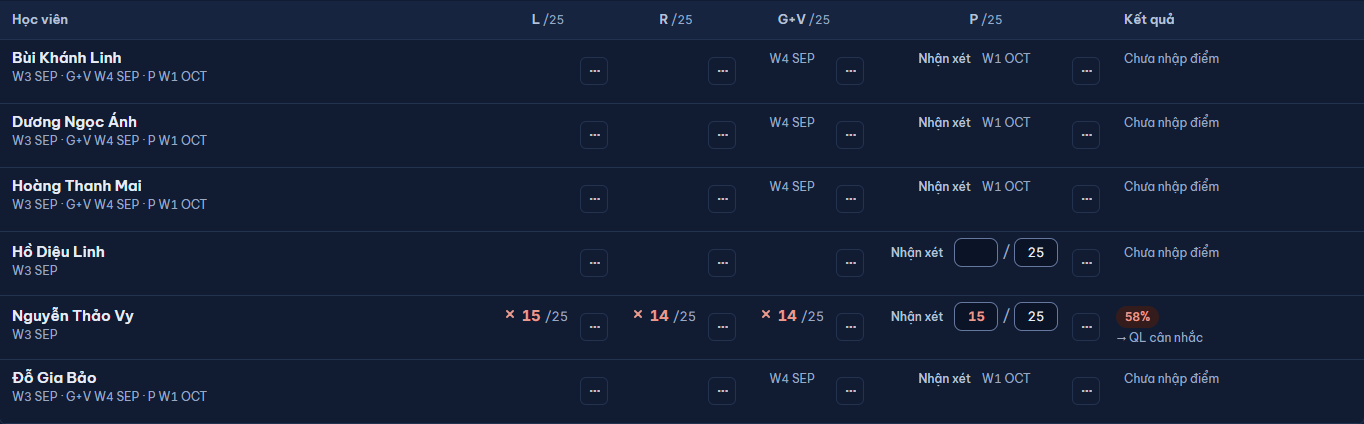
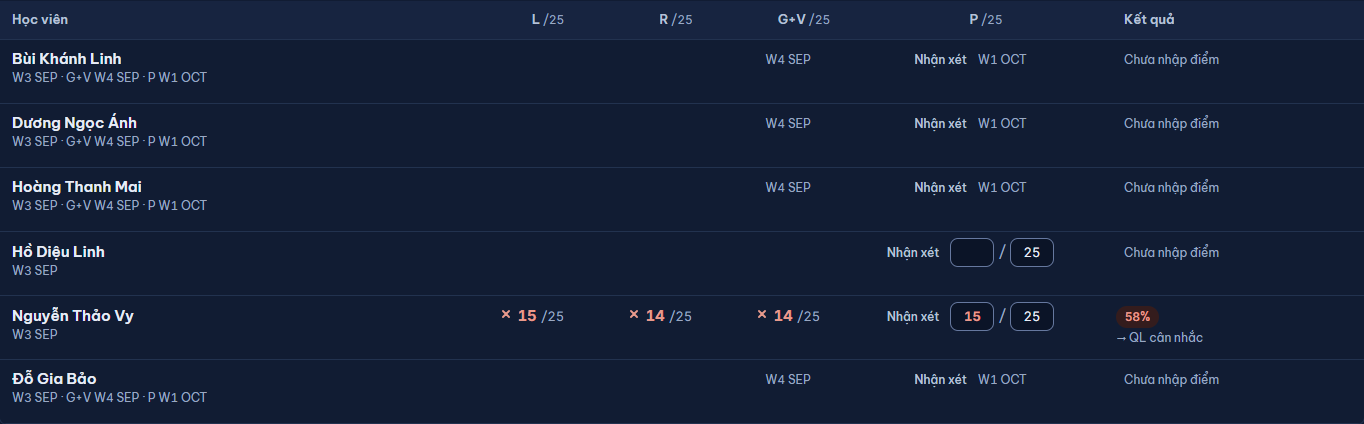
SUA-NHO-UI U0: ⋯ trong dòng đầu ô (căn baseline, invisible giữ chỗ — chỉ hiện khi rê / focus); U2: chip Lịch Test + ô chọn Công việc cũng "Fast Track n"; ảnh U0 thường / rê / 375

diff --git a/web/src/modules/cham/LuoiThuong.tsx b/web/src/modules/cham/LuoiThuong.tsx
@@ -144,8 +144,6 @@ export function tongPhoBien(rows: Row[], k: string): number | null {
 
 /* BANG-1: rộng cột theo kiểu của `Bang`; ô môn sửa được chứa Nhận xét · đúng / tổng · ⋯ trên MỘT hàng → 236 px. */
 const COT_MON = 236;
-/** U0 (chủ SP 30/10): ô có ⋯ ở mép phải chừa đệm phải = nút (28 px) + 2 lề 4 px — ⋯ không đè tuần / số / "Nhận xét" của ô, kể cả khi rê. */
-const O_CO_MENU = 'group relative !pr-9';
 const COT_KQ = 260;
 
 /**
@@ -382,9 +380,11 @@ function DongThuong({ row, rowIndex, sheet, laCp, cc, active, tongCot, dien, onR
     const tat = thaoTacKyNang(tt, { nhapDiem: s?.canEdit ?? false, quanLy: sheet.canPlan, gvcn: !!sheet.laGvcn, laFt: false, dotHoanTat: !!row.hoanTat, doiLich: s?.doiLich, quaTuan: tuanDaQua(s?.weekStart, homNay),
       huy: can(PERMISSIONS.ATTEMPT_SKIP_SKILL), han: can(PERMISSIONS.DEADLINE_OVERRIDE), diemHuy: !!s?.diemHuy });
     const ds = [...(tat.chinh && THAO_TAC_CO_HOP.includes(tat.chinh) ? [tat.chinh] : []), ...tat.menu];
-    /* OV-11i (P3-3): chỉ ẩn chờ rê chuột khi thiết bị rê được — máy tính bảng cảm ứng ≥ 640 px vẫn thấy ⋯. */
+    /* OV-11i (P3-3): chỉ ẩn chờ rê chuột khi thiết bị rê được — máy tính bảng cảm ứng ≥ 640 px vẫn thấy ⋯.
+       U0 (chủ SP 30/10): ⋯ nằm TRONG dòng đầu của ô (cùng hàng tuần / số / "Nhận xét", căn baseline) — không đè, không lệch dọc;
+       ẩn bằng `invisible` nên vẫn giữ chỗ (rê vào ô không làm chữ nhảy). */
     return (
-      <span className="absolute right-1 top-1/2 -translate-y-1/2 sm:[@media(hover:hover)]:hidden sm:[@media(hover:hover)]:group-hover:block sm:[@media(hover:hover)]:group-focus-within:block">
+      <span className="inline-flex shrink-0 sm:[@media(hover:hover)]:invisible sm:[@media(hover:hover)]:group-hover:visible sm:[@media(hover:hover)]:group-focus-within:visible">
         <MenuDong nhan={t('Thao tác · {tenMon} · {studentName}', { tenMon: tenMon(ct, k), studentName: row.studentName })} muc={[
           ...ds.map((x) => ({ key: x, nhan: CHU_THAO_TAC[x], onChon: () => (x === 'khoi-phuc-diem' ? void khoiPhuc(k) : setHop({ t: x, k })), nguyHiem: x === 'huy-diem' })),
           { key: 'lich-su', nhan: t('Lịch sử'), onChon: () => setLichSu(k), keTruoc: ds.length > 0 },
@@ -426,7 +426,7 @@ function DongThuong({ row, rowIndex, sheet, laCp, cc, active, tongCot, dien, onR
          */
         if (tuanDangXem && s?.weekStart && s.weekStart !== tuanDangXem && cell.diem === null && !s.noShow) {
           return (
-            <OBang key={k} c={cc[k]} className={`${O_CO_MENU} text-slate-500`} data-kn={k} tabIndex={0}
+            <OBang key={k} c={cc[k]} className="group relative text-slate-500" data-kn={k} tabIndex={0}
               title={t('{tenMon}: làm bài tuần {tuanLich}', { tenMon: tenMon(sheet.programme.code, k), tuanLich: tuanLich(s.weekStart, homNay) })}>
               <span className="inline-flex items-baseline gap-1">{tuanLich(s.weekStart, homNay)}{menuO(k)}</span>
             </OBang>
@@ -434,7 +434,7 @@ function DongThuong({ row, rowIndex, sheet, laCp, cc, active, tongCot, dien, onR
         }
         if (dung) {
           return (
-            <OBang key={k} c={cc[k]} className={O_CO_MENU} data-kn={k} tabIndex={0}>
+            <OBang key={k} c={cc[k]} className="group relative" data-kn={k} tabIndex={0}>
               <span className="inline-flex items-center gap-1">
                 <span className="text-xs text-slate-500" title={`${tenMon(sheet.programme.code, k)}: ${chuDung}`}>{chuDung}</span>
                 {menuO(k)}
@@ -443,7 +443,7 @@ function DongThuong({ row, rowIndex, sheet, laCp, cc, active, tongCot, dien, onR
           );
         }
         return (
-          <OBang key={k} c={cc[k]} className={`${O_CO_MENU} ${o[k] === 'loi' ? VIEN_LOI : ''}`} data-kn={k} tabIndex={canEdit ? undefined : 0}
+          <OBang key={k} c={cc[k]} className={`group relative ${o[k] === 'loi' ? VIEN_LOI : ''}`} data-kn={k} tabIndex={canEdit ? undefined : 0}
             data-trong={trong ? '1' : undefined} data-luu={o[k]}>
             <DauO tt={o[k]} loi={loi[k]} onLuuLai={() => luuLai(k)} />
             {/* BANG-1: Nhận xét · đúng / tổng một hàng; ⋯ ở mép phải ô, ẩn tới khi rê chuột / focus vào ô (điện thoại luôn hiện). */}
@@ -473,8 +473,8 @@ function DongThuong({ row, rowIndex, sheet, laCp, cc, active, tongCot, dien, onR
                 if (e.key === 'ArrowUp') { e.preventDefault(); onMove(rowIndex, ci, -1); }
               }}
             />
-            </div>
             {menuO(k)}
+            </div>
             {quaHan && (
               <div className="text-xs leading-4 text-slate-400" data-phu-odiem=""
                 title={t('{tenMon}: hạn chấm {ngay} đã qua', { tenMon: tenMon(sheet.programme.code, k), ngay: ngay(s!.deadline, homNay) })}>{quaHan}</div>

diff --git a/web/src/ui/CongTacKhung.tsx b/web/src/ui/CongTacKhung.tsx
@@ -35,25 +35,24 @@ export function nhoKhung(trang: Trang, k: KhungLoc) {
   try { localStorage.setItem(khoa(trang), k); } catch { /* không lưu được thì thôi — lần sau về mặc định */ }
 }
 
-export function CongTacKhung({ trang, value, onChange, dem, donVi = '', coTatCa = false, kieu = 'doan', chuTatCa, v8 }: {
+export function CongTacKhung({ trang, value, onChange, dem, coTatCa = false, kieu = 'doan', chuTatCa, v8 }: {
   trang: Trang; value: KhungLoc; onChange: (k: KhungLoc) => void;
   /** Số hiện cạnh tên khung (lớp, việc…); khung có số 0 coi như không có dữ liệu. */
   dem?: Partial<Record<KhungLoc, number>>;
-  /** Chữ sau số của ô chọn (`kieu="chon"`): `Fast Track · 3 lớp`. Đoạn luôn gọn "Fast Track 3" (U2). */
-  donVi?: string;
   coTatCa?: boolean;
   /** `chon` = ô chọn "Loại lớp: …" (Học viên & Lớp, K1 — không có hai chữ "Tất cả" cạnh nhau); `chip` = chip rời (Lịch tuần V5, dieu-chinh-cuoi khu a); mặc định phân đoạn. */
   kieu?: 'doan' | 'chon' | 'chip';
-  /** `chon` không tiền tố "Loại lớp:" — mục đầu là chữ này (Công việc V8: "Mọi khung"), mục sau "Fast Track · n". */
+  /** `chon` không tiền tố "Loại lớp:" — mục đầu là chữ này (Công việc V8: "Mọi khung"), mục sau "Fast Track n". */
   chuTatCa?: string;
   /** V8 (mockup v8 `.doan`): nút đoạn liền cao 36 (375: 44 full bề rộng), mục chọn đậm + gạch đáy — `BoLocDoan v8`. */
   v8?: boolean;
 }) {
+  /* SUA-NHO-UI U2 (chủ SP 30/10 "làm hết cả thể"): MỌI kiểu (đoạn · chip · ô chọn) gọn "Fast Track 4" — số sau tên, không "·", không đơn vị. */
   /* UX-2 (5): hiện theo lớp trong phạm vi người xem; chưa biết phạm vi thì theo dữ liệu đang xem như cũ. */
   const coDuLieu = khungCuaPhamVi ? (['ft', 'thuong'] as const).filter((k) => khungCuaPhamVi![k]) : (['ft', 'thuong'] as const).filter((k) => (dem?.[k] ?? 1) > 0);
   if (coDuLieu.length < 2) return null;
   if (kieu === 'chon') {
-    const chu = (ten: string, k: KhungLoc) => (dem?.[k] != null ? `${ten} · ${dem[k]}${donVi ? ` ${donVi}` : ''}` : ten);
+    const chu = (ten: string, k: KhungLoc) => (dem?.[k] != null ? `${ten} ${dem[k]}` : ten);
     if (chuTatCa) return (
       <ChonDangNut className="max-sm:w-full" aria-label={t('Khung lớp')} value={value}
         onChange={(e) => { const k = e.target.value as KhungLoc; nhoKhung(trang, k); onChange(k); }}>
@@ -72,7 +71,6 @@ export function CongTacKhung({ trang, value, onChange, dem, donVi = '', coTatCa 
     );
   }
   if (kieu === 'chip') {
-    const chu = (ten: string, k: KhungLoc) => (dem?.[k] != null && k !== 'tat-ca' ? `${ten} · ${dem[k]}` : ten);
     const muc: [KhungLoc, string][] = [...(coTatCa ? [['tat-ca', t('Tất cả')] as [KhungLoc, string]] : []), ['ft', 'Fast Track'], ['thuong', t('Lớp thường')]];
     return (
       <span className="inline-flex flex-wrap items-center gap-2" role="group" aria-label={t('Khung lớp')}>
@@ -81,7 +79,7 @@ export function CongTacKhung({ trang, value, onChange, dem, donVi = '', coTatCa 
             className={`h-8 whitespace-nowrap rounded-full border px-3 text-[13px] max-sm:h-11 ${value === k
               ? 'border-[color:var(--accent)] bg-[color:var(--accent-soft)] font-semibold text-[color:var(--accent)]'
               : 'border-[color:var(--line-strong)] font-medium bg-[color:var(--surface)] text-slate-300 hover:text-slate-100'}`}>
-            {chu(ten, k)}
+            {ten}{dem?.[k] != null && k !== 'tat-ca' && <span className="ml-1.5 tabular-nums opacity-80">{dem[k]}</span>}
           </button>
         ))}
       </span>

diff --git a/docs/anh/sua-nho-ui-3010/khop-khac.md b/docs/anh/sua-nho-ui-3010/khop-khac.md
@@ -7,18 +7,19 @@ Web chụp trên bộ demo (ngày 14/09/2026), 1440 tối · 375 sáng.
 
 | # | Khung mockup | Thành phần | Ảnh | Kết quả |
 |---|---|---|---|---|
-| U0 | (không mockup — lỗi chủ SP báo) | ô lưới điểm lớp thường + ⋯ (`LuoiThuong`) | `u0-truoc-1440.png` \| `u0-sau-1440.png` | Đo: vai 2 / 7 / 9 × 1440 / 1280 — 0 ô ⋯ giao chữ / số / "Nhận xét" (trước: "/25" chạm ⋯) |
+| U0 | (không mockup — lỗi chủ SP báo) | ô lưới điểm lớp thường + ⋯ (`LuoiThuong`) | 1440 tối: `u0-truoc-re-1440.png` \| `u0-sau-re-1440.png` (rê một ô), `u0-sau-1440.png` (thường: không ⋯ nào); 375 sáng: `u0-truoc-375-sang.png` \| `u0-sau-375-sang.png` | ⋯ nằm trong dòng đầu của ô (căn baseline), ẩn bằng `invisible` nên giữ chỗ. Đo vai 2 / 7 / 9 × 1440 / 1280 / 375, Progress + Final + Lịch Test: 0 ô bị đè, lệch dọc ⋯ ↔ dòng đầu ≤ 2 px (trước: chạm "/25", lệch 13 px) |
 | U1 | `v8/tong-quan.html` khu E (`.bao-loi`) | `ErrorState` | `u1-loi-tong-quan-1440.png` | KHỚP: ⚠ đỏ, nền / viền bad, dòng chính đậm đỏ, dải hết bề rộng |
 | U1 | `v8/phan-tich.html` D3 (375) | `ErrorState` 375 | `u1-loi-phan-tich-375.png`, `u1-loi-tong-quan-375.png` | KHỚP: nút trong dải, dưới chữ, cao 44 |
 | U1 | — (Tự quyết kế hoạch) | 403 / 404 trung tính | `u1-403-1440.png` | GIỮ nhãn "Không có quyền" / "Không thấy", nút về trang cha, link phụ |
 | U2 | `v7/ke-hoach-test.html` 1440 QL | `BoLocDoan` + `CongTacKhung` | `u2-ke-hoach-test-1440.png` | KHỚP: "Fast Track 6 · Lớp thường 16", không ✓ |
 | U2 | `v7/ke-hoach-test.html` 375 | hàng công cụ 375 | `u2-ke-hoach-test-375.png` | KHỚP: công tắc + "Lọc ▾" + ⓘ một hàng (đo top 226 / 228, 375 + 390) |
 | U2 | — | bộ lọc đoạn màn khác | `u2-cong-viec-375-sang.png`, `u2-tai-khoan-1440-toi.png` | KHỚP luật mới (không ✓, số sau tên) |
+| U2 | — | chip khung Lịch Test, ô chọn khung Công việc | `u2-lich-test-chip-1440-toi.png`; ô chọn: "Mọi khung · Fast Track 82 · Lớp thường 70" | đồng bộ "Fast Track n" (PTA 30/10) |
 | U3 | (không mockup) | `HopKyNang` ⋯ đầu hộp | `u3-truoc-*` \| `u3-sau-*` (1440 tối FT, 375 sáng lớp thường) | Xóa lịch vào ⋯, mục mờ + lý do ở rê chuột |
 | U4 | `v6/lo-trinh-moi.html` #k1 | ô "Lớp khác" (`ChonLop` / `ChonNguoi`) | `u4-mockup-v6-k1.png` \| `u4-lop-khac-1440-toi.png`, `u4-lop-khac-375-sang.png` | KHỚP: lớp đúng loại trước, lớp sai loại mờ "FT LT1 · lớp LT" |
 | U5 | `v8/phan-tich.html` (chữ tab sửa theo quyết định mới) | tab Phân tích | `u5-tab-1440-toi.png` | KHỚP |
 
-Tỉ lệ: 9 / 10 dòng KHỚP (90 %).
+Tỉ lệ: 10 / 11 dòng KHỚP (91 %).
 
 ## KHÁC (có lý do)
 - **U1 nút Thử lại bên phải dải** (≥ 640): spec 30/10 mới hơn mockup v8 (mockup vẽ nút dưới chữ / dưới dải). < 640 nút xuống dưới chữ như mockup.
@@ -28,14 +29,15 @@ Tỉ lệ: 9 / 10 dòng KHỚP (90 %).
 
 ## BỎ / GIỮ
 - BỎ: ô ✓ (kể cả ✓ ẩn chiếm chỗ) ở mọi bộ lọc đoạn không-v8; chữ "· n lớp" sau tên khung (Kế hoạch Test, Lớp tôi dạy); nút "Xóa" ở chân hộp một đợt + dòng lý do dưới chân.
-- GIỮ: kiểu chip (Lịch Test) và ô chọn (Công việc) của công tắc khung — có mockup riêng; "Xếp nhiều MT…" (D4); hộp hỏi lại "Xóa lịch … của …?" + Hoàn tác; "Mở lại" của Case / PA / lớp.
+- BỎ: "·" giữa tên khung và số ở chip Lịch Test / ô chọn Công việc (đồng bộ "Fast Track n").
+- GIỮ: hình dạng chip (Lịch Test) và ô chọn (Công việc); "Xếp nhiều MT…" (D4); hộp hỏi lại "Xóa lịch … của …?" + Hoàn tác; "Mở lại" của Case / PA / lớp.
 - "Mở lại → Khôi phục" ở nhật ký lượt: đã xong #674 (`DongThoiGianLuot.tsx:27`) — không đổi ở PR này.
 
 ## Thao tác TRƯỚC → SAU
 
 | Thao tác | Trước | Sau | Bước |
 |---|---|---|---|
-| Đọc / mở ⋯ ô lưới điểm lớp thường | ⋯ chạm "/25", tuần, "Nhận xét" | ô chừa chỗ, không đè | = |
+| Đọc / mở ⋯ ô lưới điểm lớp thường | ⋯ chạm "/25", lệch dưới chữ | ⋯ cùng hàng chữ, chỉ hiện khi rê / focus ô (cảm ứng hiện sẵn) | = |
 | Thử lại khi lỗi tải | nút giữa thẻ | nút phải trong dải (375 dưới chữ) | = |
 | Về trang cha khi 403 / 404 | nút giữa | nút phải dải trung tính | = |
 | Đổi khung FT / Lớp thường (Kế hoạch Test) | "✓ Fast Track · n lớp" | "Fast Track n" | = |

diff --git a/plan.md b/plan.md
@@ -265,7 +265,7 @@ Còn treo của các PR cũ: PH, GVb G5 ("Nhắc tất cả" #263), DH → ✅ H
 7. **Còn mở từ ra-luong:** Q-RL4 (chuyển lớp một em tuần trước Final → không MT0 / Xét lại) · Q-RL5 (MT0 khi Lên FT sau Final sinh ra đã quá hạn) · văng phiên 401 chưa tái hiện.
 8. **Dọn:** xoá DB `pisatracking-261027` (token đã lộ); DB `261028` xoá ~06/11; worktree `claude-6c-nho`, nhánh `pta-dot4` + `compassionate-gauss-…-pta`, ứng dụng ~14 GB — chủ SP tự gỡ ứng dụng.
 - Đã làm 30/10: DESIGN.md chữ phụ "≥ 7:1" → "≥ 4,5:1" cho khớp phép kiểm `prOv15a` (NEN-V5).
-- **Để sau (SUA-NHO-UI, 30/10 đêm):** `HanPhu` hạn xa TVV 2 dòng (`DanhSachViec.tsx:399-404`) · Chấm Test 375 tiêu đề dòng gãy (`ChamTestTab.tsx:204-215`) · cột Trạng thái hồ sơ lượt rộng (`MockDetailPage.tsx:930`) · ⋯ ô lưới điểm lớp thường căn giữa ô trong khi chữ căn dòng đầu → ⋯ lệch dưới chữ khi rê (`LuoiThuong.tsx` menuO, có từ trước) · công tắc kiểu chip (Lịch Test) / ô chọn (Công việc) vẫn "Fast Track · n" theo mockup riêng — đồng bộ "Fast Track n" nếu chủ SP muốn · ô "Lớp khác": dòng phụ 2 dòng (ô chọn chung) vs mockup v6 1 dòng phụ bên phải · tồn ra-ui 375 "chân panel Huỷ | Lưu cùng hàng", "+ MT ▾ xa cột cuối".
+- **Để sau (SUA-NHO-UI, 30/10 đêm):** `HanPhu` hạn xa TVV 2 dòng (`DanhSachViec.tsx:399-404`) · Chấm Test 375 tiêu đề dòng gãy (`ChamTestTab.tsx:204-215`) · cột Trạng thái hồ sơ lượt rộng (`MockDetailPage.tsx:930`) · ô "Lớp khác": dòng phụ 2 dòng (ô chọn chung) vs mockup v6 1 dòng phụ bên phải · tồn ra-ui 375 "chân panel Huỷ | Lưu cùng hàng", "+ MT ▾ xa cột cuối".
 
 ### SÁNG 27/10 — kết quả đêm (PTA Plan)
 - **Đã merge (R1 xong phần code):** #601 BO-DAN-EXCEL · #599 EN-2 · #600 PHAN-CAP-TEST (chủ SP duyệt ảnh + bỏ dòng "n học viên · Fast Track / Lớp thường") · #606 NO-CU (đổi người phụ trách Case, security-review đạt) · #607 NO-NHO (Case W2 khi đổi môn, khoá ghi góp ý tuần, MDK-15) · #608 EN-2b · #609 TEN-CHI-SO. Mỗi PR check đầy đủ xanh trên bản gộp main.
